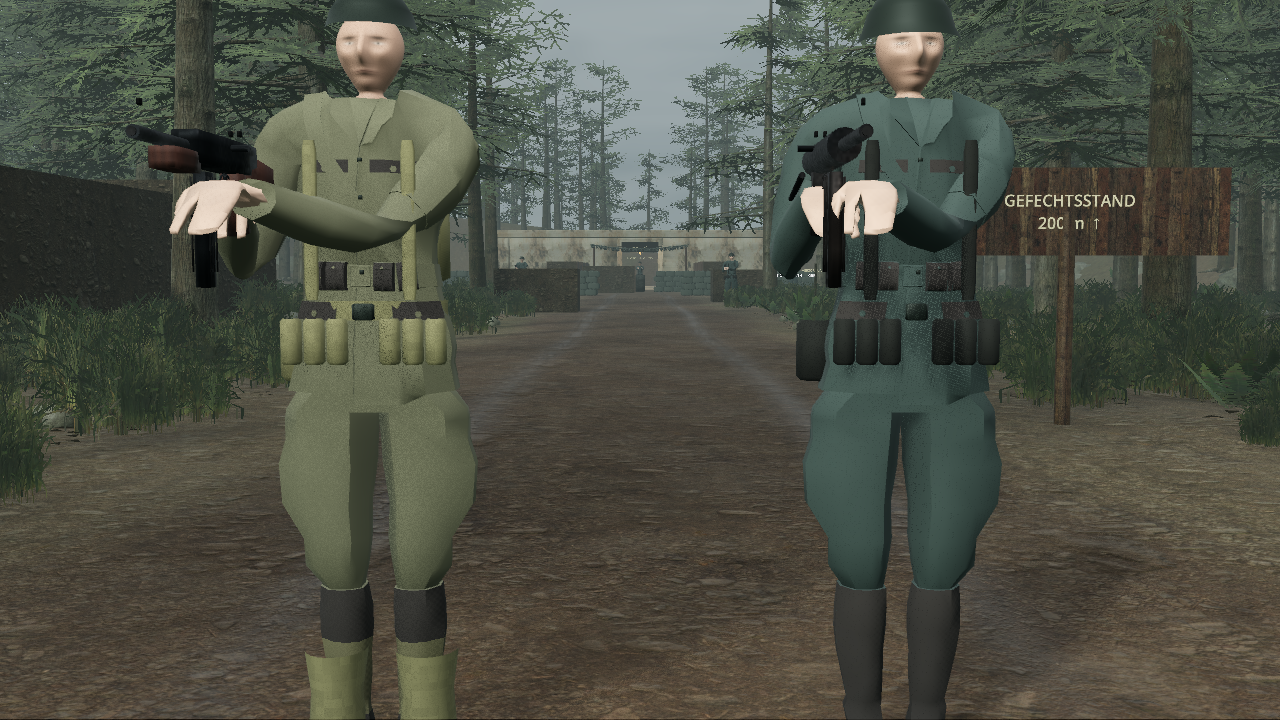
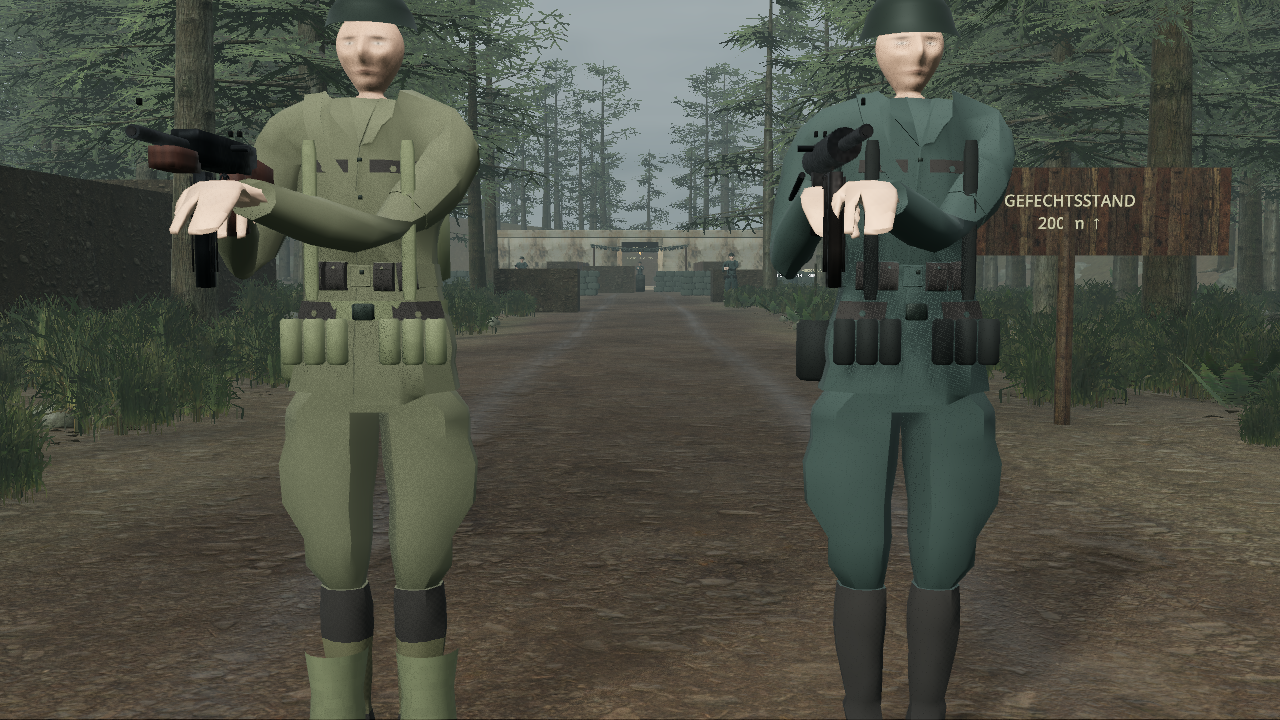
feat: extend fabric texture to sleeves, texture hand skin, add face normal map
Sleeves used a separate shader (uniform_fabric.gdshader) from the torso
and were missed by the earlier fabric pass, so arms still read flat next
to a textured chest. Extended the same CC0 linen treatment there, wired
into both the third-person arms and the first-person viewmodel hands.

Hand/neck skin used a completely flat, untextured material unlike every
other body material slot; switched it to the existing worn() helper for
procedural noise and normal variation. No CC0 skin texture exists to
source for something better.

Added a real normal map to the procedural face shader - the previous one
varied by 0.015 in a single axis, effectively invisible. Scoped
deliberately to normal-map-only, leaving the eye/brow/lip shaping math
untouched. A close-up test capture confirmed this doesn't fix the
underlying low-poly head geometry; that needs a geometry change, not a
shader one, and is out of scope here.

diff --git a/CHANGELOG.md b/CHANGELOG.md
@@ -1,5 +1,29 @@
 # Changelog
 
+## Sleeve, Hand and Face Detail - 2026-09-11
+
+- Extended the CC0 linen fabric pass to the sleeve/forearm shader
+  (`shaders/uniform_fabric.gdshader`), used by both the third-person arms
+  (`tools/build_characters.gd`) and the first-person viewmodel arms
+  (`scripts/presentation/viewmodel_arms.gd`). The torso got real fabric
+  texture in the previous pass but this separate shader was missed, so
+  sleeves still read flat next to a textured torso.
+- Switched the third-person neck/ear/hand skin material from the flat,
+  untextured `DressingParts.material()` helper to `DressingParts.worn()`,
+  which adds the same procedural noise and normal-map variation already
+  used for weapon and prop surfaces. No CC0 skin texture exists to source
+  (checked); procedural variation is the ceiling here without a different
+  source asset.
+- Added a real two-octave normal map to the procedural face shader
+  (`shaders/face_surface.gdshader`); the previous map varied by 0.015 in a
+  single axis, which is invisible under normal lighting. Deliberately
+  scoped to normal-map-only: the existing eye/brow/lip/mouth shaping math
+  is untouched. A close-up capture during testing showed this doesn't fix
+  the underlying low-poly head geometry (flat nose bridge, smudge-like
+  eyes) — a real face-detail improvement needs geometry work, not a
+  shader change, and that's out of scope for this pass.
+- Geometry, rig, weights and animations are unchanged throughout.
+
 ## Uniform Fabric Texture - 2026-09-11
 
 - Added a photographic CC0 fabric pass to the shared soldier body shader
